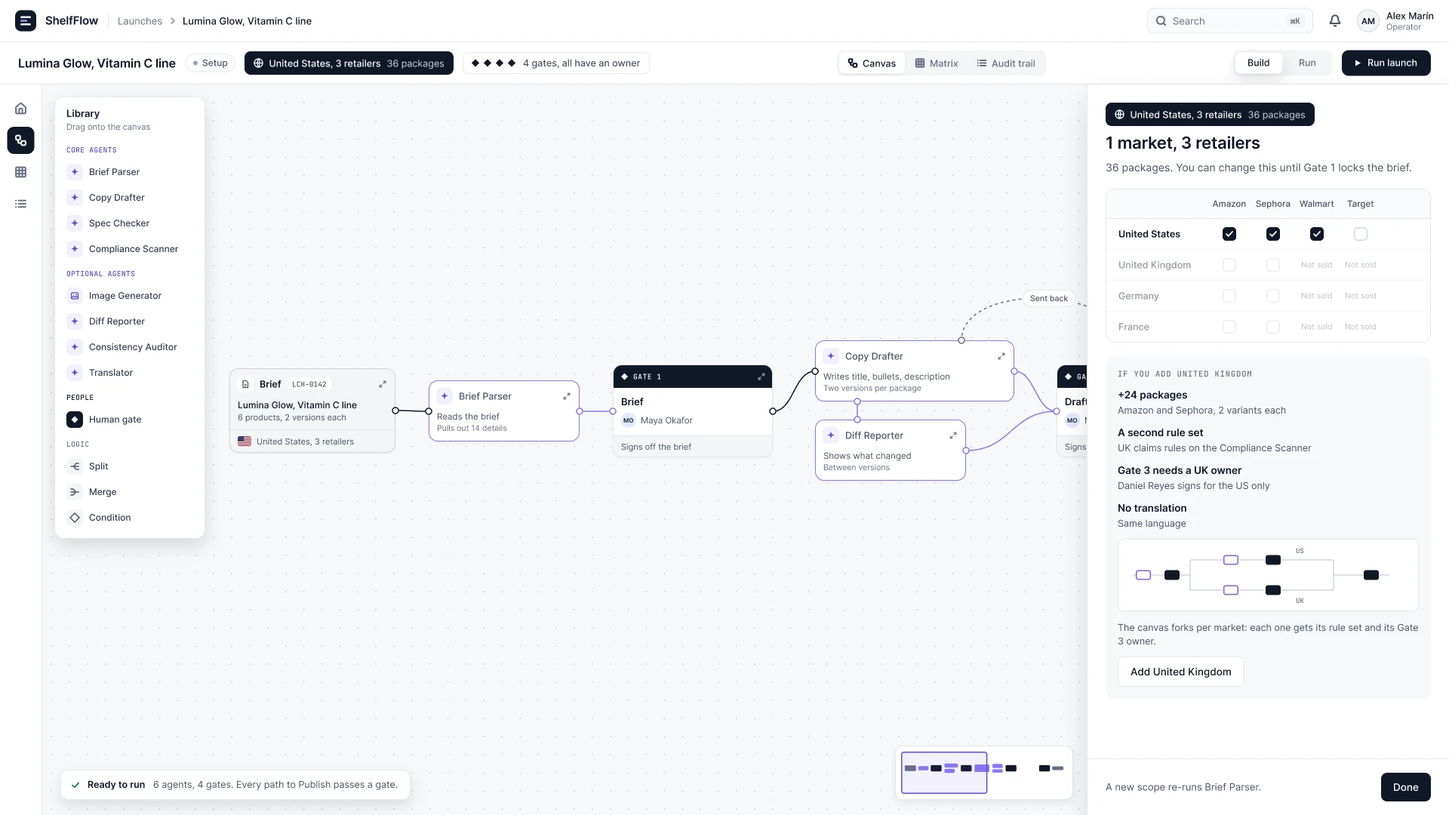
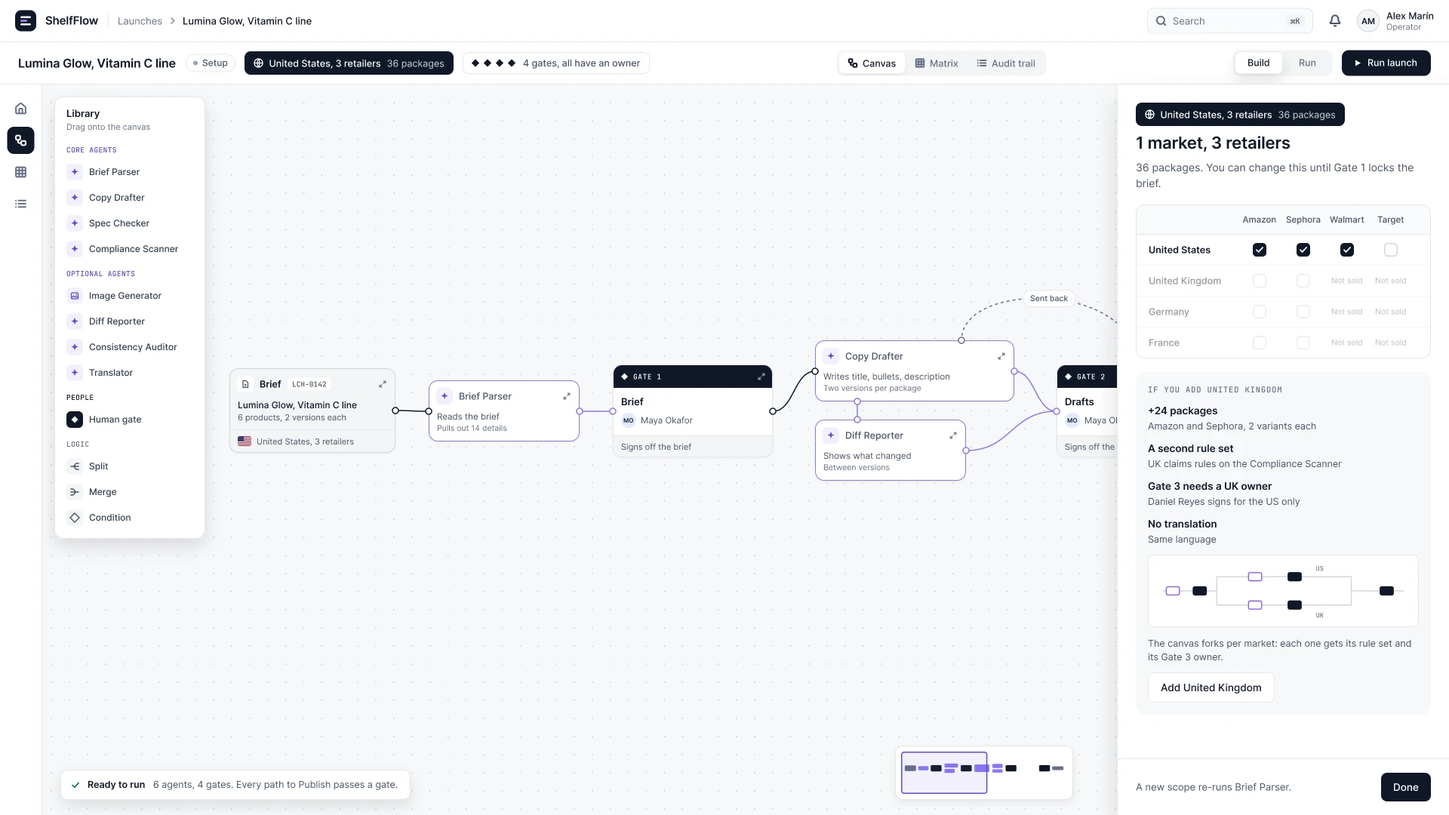
ShelfFlow: off the happy path, connections, one panel width
Agent retry, failure and hand-over; the nudge as the gate owner gets it; a gate
on a phone; the Connections screen. Scope panel now shares the 440 width.

Claude-Session: https://claude.ai/code/session_01HvDhLV3ZoERkt8nS9QeULq

diff --git a/work/shelfflow.html b/work/shelfflow.html
@@ -10,7 +10,7 @@
 <meta name="description" content="The supervision interface for an agentic content pipeline. Six AI agents, four human gates, 36 retailer-ready packages per brief. A case study by Inigo Angulo.">
 <meta property="og:title" content="ShelfFlow / Inigo Angulo">
 <meta property="og:description" content="The supervision interface for an agentic content pipeline. Six AI agents, four human gates, 36 retailer-ready packages per brief.">
-<meta property="og:image" content="https://inigoangulo.com/img/shelfflow/og.png?v=1126b">
+<meta property="og:image" content="https://inigoangulo.com/img/shelfflow/og.png?v=1126c">
 <meta property="og:image:width" content="1200">
 <meta property="og:image:height" content="630">
 <meta property="og:type" content="article">
@@ -18,7 +18,7 @@
 <meta name="twitter:card" content="summary_large_image">
 <meta name="twitter:title" content="ShelfFlow / Inigo Angulo">
 <meta name="twitter:description" content="The supervision interface for an agentic content pipeline. Six AI agents, four human gates, 36 retailer-ready packages per brief.">
-<meta name="twitter:image" content="https://inigoangulo.com/img/shelfflow/og.png?v=1126b">
+<meta name="twitter:image" content="https://inigoangulo.com/img/shelfflow/og.png?v=1126c">
 <link rel="preconnect" href="https://fonts.googleapis.com">
 <link rel="preconnect" href="https://fonts.gstatic.com" crossorigin>
 <link href="https://fonts.googleapis.com/css2?family=JetBrains+Mono:wght@300;400;500;600;700&family=IBM+Plex+Sans:wght@400;500;600;700&display=swap" rel="stylesheet">
@@ -89,7 +89,7 @@
   <p class="cs__sub" style="margin:-16px 0 32px;font-size:.78rem;color:var(--t3)">How to read the numbers: client figures are under NDA. "Weeks to days" is the target the product was designed for, not a published result. The numbers in the cards come from the demo launch shown in the screens: Lumina Glow, 6 SKUs, 3 retailers, 2 variants.</p>
 
   <!-- Hero visual -->
-  <div class="cs__img cs__img--wide" data-reveal><img src="../img/shelfflow/cover.png?v=1126b" alt="ShelfFlow canvas in Build mode: a library of agents and gates, and the start of the pipeline as a row of nodes with a sent back loop, above a minimap of the whole flow"></div>
+  <div class="cs__img cs__img--wide" data-reveal><img src="../img/shelfflow/cover.png?v=1126c" alt="ShelfFlow canvas in Build mode: a library of agents and gates, and the start of the pipeline as a row of nodes with a sent back loop, above a minimap of the whole flow"></div>
   <p class="cs__img-cap">The canvas for one launch. Violet nodes are agents, black ones are gates with a person's name on them.</p>
 
 
@@ -350,55 +350,55 @@
     </div>
 
   <div class="cs__screens" data-reveal>
-    <div class="cs__screen"><img src="../img/shelfflow/v4/build-place.webp?v=1126b" alt="Dragging a condition from the library onto an edge of the pipeline" width="1920" height="1080" loading="lazy" decoding="async"><span class="cs__screen-label">Place a node / the edge shows where it fits</span></div>
-    <div class="cs__screen"><img src="../img/shelfflow/v4/build-connect.webp?v=1126b" alt="Pulling a connection from the condition to a new legal review gate" width="1920" height="1080" loading="lazy" decoding="async"><span class="cs__screen-label">Connect a node / the socket shows where it lands</span></div>
+    <div class="cs__screen"><img src="../img/shelfflow/v4/build-place.webp?v=1126c" alt="Dragging a condition from the library onto an edge of the pipeline" width="1920" height="1080" loading="lazy" decoding="async"><span class="cs__screen-label">Place a node / the edge shows where it fits</span></div>
+    <div class="cs__screen"><img src="../img/shelfflow/v4/build-connect.webp?v=1126c" alt="Pulling a connection from the condition to a new legal review gate" width="1920" height="1080" loading="lazy" decoding="async"><span class="cs__screen-label">Connect a node / the socket shows where it lands</span></div>
   </div>
   <p class="cs__img-cap">Adding a branch. A condition dropped between Gate 3 and Gate 4 sends regulated claims through a legal gate, and the launch cannot run until that gate has an owner.</p>
-  <div class="cs__img" data-reveal><img src="../img/shelfflow/v4/build-refuse.webp?v=1126b" alt="The canvas refusing a connection from an agent straight to Publish" width="1920" height="1080" loading="lazy" decoding="async"></div>
+  <div class="cs__img" data-reveal><img src="../img/shelfflow/v4/build-refuse.webp?v=1126c" alt="The canvas refusing a connection from an agent straight to Publish" width="1920" height="1080" loading="lazy" decoding="async"></div>
   <p class="cs__img-cap">A line from an agent to Publish. The canvas refuses it and says why.</p>
     <div class="cs__section-text">
       <p>A real launch does not fit on one screen, and the canvas does not pretend it does. The flow reads in one direction and the operator pans along it, the way they would in any design tool. A minimap keeps the whole pipeline in view and marks the gate that is waiting. Each kind of node shows what it carries: a brief shows the product and where it sells, an agent shows what it made, a gate shows who signs.</p>
     </div>
 
-  <div class="cs__img" data-reveal><img src="../img/shelfflow/v6/run-live.webp?v=1126b" alt="The canvas in the middle of a run, panned to the checks: the Spec Checker is working through three retailers, later steps are joined by dotted lines, and a minimap in the corner shows the whole flow" width="1920" height="1080" loading="lazy" decoding="async"></div>
+  <div class="cs__img" data-reveal><img src="../img/shelfflow/v6/run-live.webp?v=1126c" alt="The canvas in the middle of a run, panned to the checks: the Spec Checker is working through three retailers, later steps are joined by dotted lines, and a minimap in the corner shows the whole flow" width="1920" height="1080" loading="lazy" decoding="async"></div>
   <p class="cs__img-cap">The same canvas halfway through a run, panned to the checks. Dotted lines have not run yet, the diamonds in the launch bar say which gate the launch has reached, and the minimap shows where this view sits in the whole flow.</p>
-  <div class="cs__img" data-reveal><img src="../img/shelfflow/v6/gate-timeline.webp?v=1126b" alt="Five moments of a gate shown in its header: Done in light grey, Now in solid dark, Up next in white, Maybe with a dotted outline and Blocked in red" width="1920" height="372" loading="lazy" decoding="async"></div>
+  <div class="cs__img" data-reveal><img src="../img/shelfflow/v6/gate-timeline.webp?v=1126c" alt="Five moments of a gate shown in its header: Done in light grey, Now in solid dark, Up next in white, Maybe with a dotted outline and Blocked in red" width="1920" height="372" loading="lazy" decoding="async"></div>
   <p class="cs__img-cap">In Build every gate is dark, because it marks where a person decides. Once the launch runs, the header tells time: finished gates go light, the one that is waiting stays dark, and a branch that may not happen is dotted. Every state also has a label, so colour is never the only signal.</p>
     <div class="cs__section-text">
       <p>Every node opens into more detail, and the canvas has to make that clear. A toolbar on every node would put around sixty controls on screen and bury the view of the whole launch. A toolbar that only appears on hover cannot be found, and does not exist on a touch screen. So visibility follows relevance, in three layers: a small mark on every node says it opens, the toolbar appears when a node is hovered or selected, and the one decision that is yours is a button inside the node, always there. What opens is as predictable: any node opens in the side panel to look, expands to a full view to study, and only the Review button on a gate starts a decision, one at a time.</p>
     </div>
 
-  <div class="cs__img" data-reveal><img src="../img/shelfflow/v6/three-layers.webp?v=1126b" alt="The same agent node at rest, on hover with its toolbar, and selected with the toolbar pinned, next to a gate whose Review button sits inside the node" width="1920" height="640" loading="lazy" decoding="async"></div>
+  <div class="cs__img" data-reveal><img src="../img/shelfflow/v6/three-layers.webp?v=1126c" alt="The same agent node at rest, on hover with its toolbar, and selected with the toolbar pinned, next to a gate whose Review button sits inside the node" width="1920" height="640" loading="lazy" decoding="async"></div>
   <p class="cs__img-cap">The same node at rest, on hover and selected. On the right, the gate that is waiting on you carries its own button.</p>
-  <div class="cs__img" data-reveal><img src="../img/shelfflow/v6/node-toolbar.webp?v=1126b" alt="A gate selected in Build mode with its toolbar above it: Change owner, open in side panel, expand, and a More menu that opens upward with Duplicate, Copy link and a locked Delete" width="1920" height="1080" loading="lazy" decoding="async"></div>
+  <div class="cs__img" data-reveal><img src="../img/shelfflow/v6/node-toolbar.webp?v=1126c" alt="A gate selected in Build mode with its toolbar above it: Change owner, open in side panel, expand, and a More menu that opens upward with Duplicate, Copy link and a locked Delete" width="1920" height="1080" loading="lazy" decoding="async"></div>
   <p class="cs__img-cap">The toolbar in Build. One action changes with the node and the other three stay put. The menu opens away from the row, so it never covers the node it belongs to.</p>
     <div class="cs__section-text">
       <p>Before any of that, the operator says where the launch goes. Markets and retailers are chosen first, because everything downstream follows from them: how many packages there are, which claims rules apply and who has to sign. Retailers depend on the market, so the choice is a grid, and the package count moves as it changes.</p>
     </div>
 
   <div class="cs__screens" data-reveal>
-    <div class="cs__screen"><img src="../img/shelfflow/v5/scope-step.webp?v=1126b" alt="Setting the scope of a launch: markets on the left, a grid of retailers per market on the right, and the package count below" width="1920" height="1080" loading="lazy" decoding="async"><span class="cs__screen-label">Scope first / markets, retailers, package count</span></div>
-    <div class="cs__screen"><img src="../img/shelfflow/v5/scope-panel.webp?v=1126b" alt="The scope panel open on the canvas, previewing what adding the United Kingdom would change" width="1920" height="1080" loading="lazy" decoding="async"><span class="cs__screen-label">On the canvas / what a second market adds</span></div>
+    <div class="cs__screen"><img src="../img/shelfflow/v5/scope-step.webp?v=1126c" alt="Setting the scope of a launch: markets on the left, a grid of retailers per market on the right, and the package count below" width="1920" height="1080" loading="lazy" decoding="async"><span class="cs__screen-label">Scope first / markets, retailers, package count</span></div>
+    <div class="cs__screen"><img src="../img/shelfflow/v5/scope-panel.webp?v=1126c" alt="The scope panel open on the canvas, previewing what adding the United Kingdom would change" width="1920" height="1080" loading="lazy" decoding="async"><span class="cs__screen-label">On the canvas / what a second market adds</span></div>
   </div>
   <p class="cs__img-cap">Lumina Glow goes to one market and three retailers: 6 products, 3 retailers, 2 variants, 36 packages. Adding the United Kingdom would add 24.</p>
-  <div class="cs__img" data-reveal><img src="../img/shelfflow/v5/scope-markets.webp?v=1126b" alt="The canvas with two markets: after the retailer checks the flow forks per market, each lane with its own Compliance Scanner rules and its own Gate 3, and the UK gate has no owner yet" width="1920" height="1080" loading="lazy" decoding="async"></div>
+  <div class="cs__img" data-reveal><img src="../img/shelfflow/v5/scope-markets.webp?v=1126c" alt="The canvas with two markets: after the retailer checks the flow forks per market, each lane with its own Compliance Scanner rules and its own Gate 3, and the UK gate has no owner yet" width="1920" height="1080" loading="lazy" decoding="async"></div>
   <p class="cs__img-cap">A second market is more than extra packages. The canvas forks per market, each lane gets its own claims rules and its own Gate 3, and the launch cannot run until the new gate has an owner.</p>
     <div class="cs__section-text">
       <p>The drawing also changes with the brief. A copy refresh on two retailers needs four agents. A seasonal promo needs new visuals, so the operator brings in an optional Image Generator that runs beside the Copy Drafter and arrives at the same gate. A new product line needs every check. ShelfFlow reads the brief and suggests the closest shape.</p>
     </div>
 
   <div class="cs__screens" data-reveal>
-    <div class="cs__screen"><img src="../img/shelfflow/v4/brief-templates.webp?v=1126b" alt="Starting a launch: four pipeline templates, with Promo campaign suggested from the brief" width="1920" height="1080" loading="lazy" decoding="async"><span class="cs__screen-label">Start from the brief / a shape is suggested</span></div>
-    <div class="cs__screen"><img src="../img/shelfflow/v4/promo-canvas.webp?v=1126b" alt="The canvas for a promo campaign, with an optional Image Generator node beside the Copy Drafter" width="1920" height="1080" loading="lazy" decoding="async"><span class="cs__screen-label">Promo canvas / an optional agent joins</span></div>
+    <div class="cs__screen"><img src="../img/shelfflow/v4/brief-templates.webp?v=1126c" alt="Starting a launch: four pipeline templates, with Promo campaign suggested from the brief" width="1920" height="1080" loading="lazy" decoding="async"><span class="cs__screen-label">Start from the brief / a shape is suggested</span></div>
+    <div class="cs__screen"><img src="../img/shelfflow/v4/promo-canvas.webp?v=1126c" alt="The canvas for a promo campaign, with an optional Image Generator node beside the Copy Drafter" width="1920" height="1080" loading="lazy" decoding="async"><span class="cs__screen-label">Promo canvas / an optional agent joins</span></div>
   </div>
   <p class="cs__img-cap">Holiday Gift Sets needs new visuals and carries no regulated claims, so the promo shape is suggested.</p>
-  <div class="cs__img" data-reveal><img src="../img/shelfflow/v4/zoom-optional-node.webp?v=1126b" alt="Close view of the promo canvas: after Gate 1 the path forks to the Copy Drafter and to an Image Generator node tagged optional that shows its packshots, and both meet at Gate 2" width="1664" height="724" loading="lazy" decoding="async"></div>
+  <div class="cs__img" data-reveal><img src="../img/shelfflow/v4/zoom-optional-node.webp?v=1126c" alt="Close view of the promo canvas: after Gate 1 the path forks to the Copy Drafter and to an Image Generator node tagged optional that shows its packshots, and both meet at Gate 2" width="1664" height="724" loading="lazy" decoding="async"></div>
   <p class="cs__img-cap">The optional node, up close. After Gate 1 the path forks: copy on one branch, visuals on the other, and both meet at Gate 2.</p>
-  <div class="cs__img" data-reveal><img src="../img/shelfflow/v4/image-node.webp?v=1126b" alt="The Image Generator node expanded: inputs, generated visuals per retailer format, boundaries and track record" width="1920" height="1080" loading="lazy" decoding="async"></div>
+  <div class="cs__img" data-reveal><img src="../img/shelfflow/v4/image-node.webp?v=1126c" alt="The Image Generator node expanded: inputs, generated visuals per retailer format, boundaries and track record" width="1920" height="1080" loading="lazy" decoding="async"></div>
   <p class="cs__img-cap">Open the node and it shows what every agent shows: what it used, what it made, and what it is not allowed to do. It composes from approved packshots, cannot add a claim or a price, and its output still waits for a person.</p>
-  <div class="cs__img" data-reveal><img src="../img/shelfflow/v4/zoom-image-node.webp?v=1126b" alt="Generated visuals for gift sets by retailer format: some ready, one redone, two still generating" width="1800" height="1194" loading="lazy" decoding="async"></div>
+  <div class="cs__img" data-reveal><img src="../img/shelfflow/v4/zoom-image-node.webp?v=1126c" alt="Generated visuals for gift sets by retailer format: some ready, one redone, two still generating" width="1800" height="1194" loading="lazy" decoding="async"></div>
   <p class="cs__img-cap">Its output: one visual per gift set and retailer format. One was redone for being off brand before anyone saw it. These images were generated for the demo.</p>
-  <div class="cs__img" data-reveal><img src="../img/shelfflow/v4/three-canvases.webp?v=1126b" alt="Three canvases compared: a copy refresh with four agents, a promo campaign with five, and a full launch with six and a legal branch" width="1920" height="1080" loading="lazy" decoding="async"></div>
+  <div class="cs__img" data-reveal><img src="../img/shelfflow/v4/three-canvases.webp?v=1126c" alt="Three canvases compared: a copy refresh with four agents, a promo campaign with five, and a full launch with six and a legal branch" width="1920" height="1080" loading="lazy" decoding="async"></div>
   <p class="cs__img-cap">Three briefs, three canvases, drawn with the same nodes at the same zoom: four, five and six agents. The gates do not move.</p>
     <div class="cs__section-text">
       <p>A shape that worked should not be rebuilt by hand. Once a launch is live, the operator can save it as a template, and Brief Parser does the sorting: it compares past launches and splits every setting into what stays fixed, what comes filled in, and what is asked each time. The next promo is four fields instead of a brief.</p>
@@ -406,15 +406,15 @@
     </div>
 
   <div class="cs__screens" data-reveal>
-    <div class="cs__screen"><img src="../img/shelfflow/v5/template-save.webp?v=1126b" alt="Save as template: the settings of a live launch sorted into three columns, Fixed, Default and Ask every time" width="1920" height="1080" loading="lazy" decoding="async"><span class="cs__screen-label">Save as template / the agent sorts the settings</span></div>
-    <div class="cs__screen"><img src="../img/shelfflow/v5/template-launch.webp?v=1126b" alt="A new launch started from a template: four fields to fill in, next to the list of what is already decided" width="1920" height="1080" loading="lazy" decoding="async"><span class="cs__screen-label">New launch / four fields, the rest is decided</span></div>
+    <div class="cs__screen"><img src="../img/shelfflow/v5/template-save.webp?v=1126c" alt="Save as template: the settings of a live launch sorted into three columns, Fixed, Default and Ask every time" width="1920" height="1080" loading="lazy" decoding="async"><span class="cs__screen-label">Save as template / the agent sorts the settings</span></div>
+    <div class="cs__screen"><img src="../img/shelfflow/v5/template-launch.webp?v=1126c" alt="A new launch started from a template: four fields to fill in, next to the list of what is already decided" width="1920" height="1080" loading="lazy" decoding="async"><span class="cs__screen-label">New launch / four fields, the rest is decided</span></div>
   </div>
   <p class="cs__img-cap">Alex saves Holiday Gift Sets as a template. The next gift set launch asks for products, dates, the offer claim and the packshots, and nothing else.</p>
-  <div class="cs__img" data-reveal><img src="../img/shelfflow/v5/template-update.webp?v=1126b" alt="A proposed template update from version 3 to version 4: two changes with their evidence, the affected node marked on the canvas, and approve or dismiss" width="1920" height="1080" loading="lazy" decoding="async"></div>
+  <div class="cs__img" data-reveal><img src="../img/shelfflow/v5/template-update.webp?v=1126c" alt="A proposed template update from version 3 to version 4: two changes with their evidence, the affected node marked on the canvas, and approve or dismiss" width="1920" height="1080" loading="lazy" decoding="async"></div>
   <p class="cs__img-cap">Keeping it current. Image Generator was added by hand in 4 of the last 5 launches, so Diff Reporter proposes turning it on by default. Maya can approve both changes, one, or none.</p>
-  <div class="cs__img" data-reveal><img src="../img/shelfflow/v5/template-library.webp?v=1126b" alt="The template library: three templates owned by the team with their state and usage, and the three shapes that ship with ShelfFlow, locked" width="1920" height="1080" loading="lazy" decoding="async"></div>
+  <div class="cs__img" data-reveal><img src="../img/shelfflow/v5/template-library.webp?v=1126c" alt="The template library: three templates owned by the team with their state and usage, and the three shapes that ship with ShelfFlow, locked" width="1920" height="1080" loading="lazy" decoding="async"></div>
   <p class="cs__img-cap">The library. The team's templates carry a state, a version and how long they take to reach Live. The three shapes that ship with ShelfFlow can be duplicated, not edited.</p>
-  <div class="cs__img" data-reveal><img src="../img/shelfflow/v5/chip-system.webp?v=1126b" alt="The chip system: five kinds of label, each answering one question, with the life cycle of a launch, a template and a gate" width="1920" height="1080" loading="lazy" decoding="async"></div>
+  <div class="cs__img" data-reveal><img src="../img/shelfflow/v5/chip-system.webp?v=1126c" alt="The chip system: five kinds of label, each answering one question, with the life cycle of a launch, a template and a gate" width="1920" height="1080" loading="lazy" decoding="async"></div>
   <p class="cs__img-cap">Templates added a second thing that could be a draft, so every label in the product was sorted again. A chip now answers one question: where it is, what the agent is doing, what rule applies, where it came from, or how many.</p>
   <a href="/lab/hold-the-gate/" data-reveal style="display:flex;align-items:center;gap:20px;flex-wrap:wrap;background:rgba(45,212,191,.04);border:1px solid rgba(45,212,191,.25);border-radius:12px;padding:22px 26px;margin:28px 0;text-decoration:none">
     <span style="flex:1;min-width:240px">
@@ -439,47 +439,47 @@
       <p>Below, every launch by stage. A card shows what separates one launch from the next: days to launch, progress inside its stage and, when something is wrong, what. The four diamonds in its corner are the same ones the canvas uses: green for a gate already signed, black for the one open now, outlined for the ones still ahead.</p>
     </div>
 
-  <div class="cs__img" data-reveal><img src="../img/shelfflow/v4/home-dashboard.webp?v=1126b" alt="ShelfFlow home: the decision queue with the first row selected, the launches that are not moving with who they wait on, the dates for the week, and a board of sixteen launches by stage" width="1920" height="1080" loading="lazy" decoding="async"></div>
+  <div class="cs__img" data-reveal><img src="../img/shelfflow/v4/home-dashboard.webp?v=1126c" alt="ShelfFlow home: the decision queue with the first row selected, the launches that are not moving with who they wait on, the dates for the week, and a board of sixteen launches by stage" width="1920" height="1080" loading="lazy" decoding="async"></div>
   <p class="cs__img-cap">Home, from the Content Lead's seat. The queue is hers, the list next to it is everyone else's. On the board, black is waiting on her, grey on someone else, violet is an agent working, red is an error.</p>
-  <div class="cs__img" data-reveal><img src="../img/shelfflow/v4/zoom-home-cards.webp?v=1126b" alt="Close view of launch cards: four diamonds for the gates, days to launch, progress bars and error states" width="1800" height="680" loading="lazy" decoding="async"></div>
+  <div class="cs__img" data-reveal><img src="../img/shelfflow/v4/zoom-home-cards.webp?v=1126c" alt="Close view of launch cards: four diamonds for the gates, days to launch, progress bars and error states" width="1800" height="680" loading="lazy" decoding="async"></div>
   <p class="cs__img-cap">Three kinds of trouble on the board: a check blocked by a missing spec sheet, an agent that timed out and is retrying, and a launch two days late.</p>
-  <div class="cs__img" data-reveal><img src="../img/shelfflow/v4/home-filter.webp?v=1126b" alt="The board filtered to launches with an error: two cards remain, with the filter conditions open" width="1864" height="484" loading="lazy" decoding="async"></div>
+  <div class="cs__img" data-reveal><img src="../img/shelfflow/v4/home-filter.webp?v=1126c" alt="The board filtered to launches with an error: two cards remain, with the filter conditions open" width="1864" height="484" loading="lazy" decoding="async"></div>
   <p class="cs__img-cap">Finding one launch among sixteen: search by name, SKU or retailer, or filter by condition.</p>
     <p style="font-family:var(--m);font-size:.72rem;letter-spacing:.1em;text-transform:uppercase;color:var(--ac);margin:44px 0 10px">13:02 to 13:14 / Gate 1, the brief</p>
     <div class="cs__section-text">
       <p>Alex submits the brief. The Brief Parser structures it into 6 SKUs and 36 packages, and stops on what it cannot settle: the brief names three markets, but every retailer and SKU is US only. Maya answers the question and locks the brief. From here it cannot change silently.</p>
     </div>
 
-  <div class="cs__img" data-reveal><img src="../img/shelfflow/v3/gate1.webp?v=1126b" alt="Gate 1: the submitted brief next to what the agent structured, field by field" width="1920" height="1080" loading="lazy" decoding="async"></div>
+  <div class="cs__img" data-reveal><img src="../img/shelfflow/v3/gate1.webp?v=1126c" alt="Gate 1: the submitted brief next to what the agent structured, field by field" width="1920" height="1080" loading="lazy" decoding="async"></div>
   <p class="cs__img-cap">Gate 1. On the left, what Alex wrote. On the right, what the agent read, with every difference marked.</p>
     <p style="font-family:var(--m);font-size:.72rem;letter-spacing:.1em;text-transform:uppercase;color:var(--ac);margin:44px 0 10px">13:17 to 13:52 / Gate 2, drafts and a loop</p>
     <div class="cs__section-text">
       <p>The Copy Drafter writes two versions of all 36 packages. Maya sends three back as too long for Sephora. She says what is wrong in one sentence, the work returns to the agent, and she is free until it comes back. Minutes later the rewrites return with the changes marked, and she approves all 36.</p>
     </div>
 
-  <div class="cs__img" data-reveal><img src="../img/shelfflow/v4/zoom-loop.webp?v=1126b" alt="Close view of the sent back loop between Gate 2 and the Copy Drafter" width="1360" height="680" loading="lazy" decoding="async"></div>
+  <div class="cs__img" data-reveal><img src="../img/shelfflow/v4/zoom-loop.webp?v=1126c" alt="Close view of the sent back loop between Gate 2 and the Copy Drafter" width="1360" height="680" loading="lazy" decoding="async"></div>
   <p class="cs__img-cap">A rejection is a loop, not a dead end. Three drafts are back with the Copy Drafter and everything downstream waits.</p>
     <p style="font-family:var(--m);font-size:.72rem;letter-spacing:.1em;text-transform:uppercase;color:var(--ac);margin:44px 0 10px">14:10 to 14:21 / The checks</p>
     <div class="cs__section-text">
       <p>Past Gate 2 the Spec Checker takes each retailer against its own limits, one row per retailer, and nothing moves on until all three fit. Then the Compliance Scanner reads every claim. On the canvas an agent says what it did in one line: packages written, retailers that fit, claims flagged. The detail is one click away.</p>
     </div>
 
-  <div class="cs__img" data-reveal><img src="../img/shelfflow/v4/zoom-split.webp?v=1126b" alt="Close view of the Spec Checker while it runs: one row per retailer, Amazon fits, Sephora and Walmart are being checked" width="1520" height="800" loading="lazy" decoding="async"></div>
+  <div class="cs__img" data-reveal><img src="../img/shelfflow/v4/zoom-split.webp?v=1126c" alt="Close view of the Spec Checker while it runs: one row per retailer, Amazon fits, Sephora and Walmart are being checked" width="1520" height="800" loading="lazy" decoding="async"></div>
   <p class="cs__img-cap">The Spec Checker while it runs. Amazon fits, Sephora and Walmart are still being checked.</p>
-  <div class="cs__img" data-reveal><img src="../img/shelfflow/v4/run-agent.webp?v=1126b" alt="Clicking the Compliance Scanner opens its essentials in a side panel" width="1920" height="1080" loading="lazy" decoding="async"></div>
+  <div class="cs__img" data-reveal><img src="../img/shelfflow/v4/run-agent.webp?v=1126c" alt="Clicking the Compliance Scanner opens its essentials in a side panel" width="1920" height="1080" loading="lazy" decoding="async"></div>
   <p class="cs__img-cap">Clicking the scanner: what it flagged, what it may and may not do, and how often its flags hold up once a person checks them.</p>
     <p style="font-family:var(--m);font-size:.72rem;letter-spacing:.1em;text-transform:uppercase;color:var(--ac);margin:44px 0 10px">14:21 to 14:52 / Gate 3, compliance</p>
     <div class="cs__section-text">
       <p>The scanner raises four flags: "clinically proven", "results in 14 days", "dermatologist approved" and "all-day protection". They sit on six packages, because the same claim repeats across retailers. The other 30 are clear. The flags are what the agent caught, not what shipped. Daniel takes them one at a time.</p>
     </div>
 
-  <div class="cs__img" data-reveal><img src="../img/shelfflow/v6/gate-panel.webp?v=1126b" alt="Gate 3 selected on the canvas with its side panel open: four flagged claims, the count of clear packages and a Review flags button" width="1920" height="1080" loading="lazy" decoding="async"></div>
+  <div class="cs__img" data-reveal><img src="../img/shelfflow/v6/gate-panel.webp?v=1126c" alt="Gate 3 selected on the canvas with its side panel open: four flagged claims, the count of clear packages and a Review flags button" width="1920" height="1080" loading="lazy" decoding="async"></div>
   <p class="cs__img-cap">Gate 3 from Daniel's seat. Selecting the gate opens it in the side panel, where every node opens, and the decision starts from Review.</p>
-  <div class="cs__img" data-reveal><img src="../img/shelfflow/v6/matrix.webp?v=1126b" alt="The Matrix view: six products by three retailers, two versions per cell, with the six flagged packages marked in red" width="1920" height="1080" loading="lazy" decoding="async"></div>
+  <div class="cs__img" data-reveal><img src="../img/shelfflow/v6/matrix.webp?v=1126c" alt="The Matrix view: six products by three retailers, two versions per cell, with the six flagged packages marked in red" width="1920" height="1080" loading="lazy" decoding="async"></div>
   <p class="cs__img-cap">The same moment in the Matrix view: every package by product and retailer. Four flags on six packages, 30 clear.</p>
-  <div class="cs__img" data-reveal><img src="../img/shelfflow/v4/gate3-review.webp?v=1126b" alt="Gate 3 opened over the canvas, showing one flagged sentence" width="1920" height="1080" loading="lazy" decoding="async"></div>
+  <div class="cs__img" data-reveal><img src="../img/shelfflow/v4/gate3-review.webp?v=1126c" alt="Gate 3 opened over the canvas, showing one flagged sentence" width="1920" height="1080" loading="lazy" decoding="async"></div>
   <p class="cs__img-cap">One flag: the sentence, the reason, a note for the agent, and a keyboard shortcut per answer. This decision also covers the same claim in two other packages.</p>
-  <div class="cs__img" data-reveal><img src="../img/shelfflow/v3/gate3-evidence.webp?v=1126b" alt="The full evidence view for one flag, with the decision panel" width="1920" height="1080" loading="lazy" decoding="async"></div>
+  <div class="cs__img" data-reveal><img src="../img/shelfflow/v3/gate3-evidence.webp?v=1126c" alt="The full evidence view for one flag, with the decision panel" width="1920" height="1080" loading="lazy" decoding="async"></div>
   <p class="cs__img-cap">The evidence behind it: the rule, the source sentence in the brief, and a suggested rewrite that is never applied on its own.</p>
     <p style="font-family:var(--m);font-size:.72rem;letter-spacing:.1em;text-transform:uppercase;color:var(--ac);margin:44px 0 10px">14:52 to 15:24 / Gate 4, the launch</p>
     <div class="cs__section-text">
@@ -487,8 +487,8 @@
     </div>
 
   <div class="cs__screens" data-reveal>
-    <div class="cs__screen"><img src="../img/shelfflow/v4/gate4-choose.webp?v=1126b" alt="Gate 4: choosing between version A and B for one product and retailer" width="1920" height="1080" loading="lazy" decoding="async"><span class="cs__screen-label">Gate 4 / one choice</span></div>
-    <div class="cs__screen"><img src="../img/shelfflow/v4/gate4-batch.webp?v=1126b" alt="Gate 4: the batch shortcut stays locked until every choice has been opened" width="1920" height="1080" loading="lazy" decoding="async"><span class="cs__screen-label">Gate 4 / the shortcut, still locked</span></div>
+    <div class="cs__screen"><img src="../img/shelfflow/v4/gate4-choose.webp?v=1126c" alt="Gate 4: choosing between version A and B for one product and retailer" width="1920" height="1080" loading="lazy" decoding="async"><span class="cs__screen-label">Gate 4 / one choice</span></div>
+    <div class="cs__screen"><img src="../img/shelfflow/v4/gate4-batch.webp?v=1126c" alt="Gate 4: the batch shortcut stays locked until every choice has been opened" width="1920" height="1080" loading="lazy" decoding="async"><span class="cs__screen-label">Gate 4 / the shortcut, still locked</span></div>
   </div>
   <p class="cs__img-cap">Two versions side by side with their character counts. On the right, the shortcut waits for six choices she has not opened yet.</p>
     <p style="font-family:var(--m);font-size:.72rem;letter-spacing:.1em;text-transform:uppercase;color:var(--ac);margin:44px 0 10px">15:24 / Live</p>
@@ -496,10 +496,18 @@
       <p>Sofia approves. One variant of each product goes live on each retailer: 18 packages, 2 hours and 22 minutes after the brief arrived.</p>
     </div>
 
-  <div class="cs__img" data-reveal><img src="../img/shelfflow/v4/run-done.webp?v=1126b" alt="The canvas after launch: every gate signed, 18 packages live" width="1920" height="1080" loading="lazy" decoding="async"></div>
+  <div class="cs__img" data-reveal><img src="../img/shelfflow/v4/run-done.webp?v=1126c" alt="The canvas after launch: every gate signed, 18 packages live" width="1920" height="1080" loading="lazy" decoding="async"></div>
   <p class="cs__img-cap">The same drawing Alex built, with every node done.</p>
-  <div class="cs__img" data-reveal><img src="../img/shelfflow/v3/audit.webp?v=1126b" alt="Audit trail view: every step in order with people in bold, and one step open showing who sent three packages back, why, and what the agents did next" width="1920" height="1080" loading="lazy" decoding="async"></div>
+  <div class="cs__img" data-reveal><img src="../img/shelfflow/v3/audit.webp?v=1126c" alt="Audit trail view: every step in order with people in bold, and one step open showing who sent three packages back, why, and what the agents did next" width="1920" height="1080" loading="lazy" decoding="async"></div>
   <p class="cs__img-cap">The audit trail for this launch. People are in bold and each gate decision is tagged, so "who approved this claim?" is one row with a name and a time. Every step opens in place: who, what, the note that went to the agent and what happened next.</p>
+    <p style="font-family:var(--m);font-size:.72rem;letter-spacing:.1em;text-transform:uppercase;color:var(--ac);margin:44px 0 10px">Off the happy path</p>
+    <div class="cs__section-text">
+      <p>Lumina Glow went through without a failure, and most launches do not. Two things break a pipeline like this one: an agent that stops answering, and a person who does not see that a gate is waiting. Each has a designed path. An agent retries three times on its own, then stops the launch at its node and tells the operator, who can retry it or hand the node to a person. A failed agent never passes work on, so the gate after it stays closed. A person gets a nudge that carries the decision itself, and the two gates that are one question at a time can be answered from a phone.</p>
+    </div>
+  <div class="cs__img" data-reveal><img src="../img/shelfflow/v6/off-plan.webp?v=1126c" alt="Three states of a failing agent, the nudge a gate owner receives with the flag inside it, and Gate 3 reviewed on a phone" width="1920" height="780" loading="lazy" decoding="async"></div>
+  <p class="cs__img-cap">When it does not go to plan: the agent that fails, the nudge as the gate owner gets it, and the gate on a phone. Gate 4 stays on a desk, because 18 choices need both versions side by side.</p>
+  <div class="cs__img" data-reveal><img src="../img/shelfflow/v6/connections.webp?v=1126c" alt="Connections: where a launch starts, what the agents check against, where packages go and where people are told, with two connections needing attention" width="1920" height="880" loading="lazy" decoding="async"></div>
+  <p class="cs__img-cap">Connections, the last place a problem hides. The two that need attention here are the same two launches that are not moving on Home: Sephora has no spec sheet for Lip Care, and the claims library is timing out for Deo Sticks.</p>
   </div>
 
   <div class="cs__section" id="s05" data-reveal>

diff --git a/index.html b/index.html
@@ -936,7 +936,7 @@ window.addEventListener('DOMContentLoaded',function(){
 
 <div class="layer layer--raised"><div class="mx"><div class="sh"><span>// work</span></div>
 <div class="cards">
-<a href="work/shelfflow.html" class="cd cd--f cd--5"><div class="cd__img"><img src="img/shelfflow/flagship-card.webp?v=1126b" width="2374" height="1118" decoding="async" alt="ShelfFlow: six agents do the work, four people decide what ships" style="width:100%;height:100%;object-fit:cover;object-position:center;position:absolute;inset:0"></div><div class="cd__body"><div class="cd__type"><span class="cd__tag cd__tag--who">Enterprise CPG / NDA</span><span class="cd__tag cd__tag--what">Agentic Pipeline</span><span class="cd__tag cd__tag--result">1 Brief &#8594; 36 Packages</span><span class="cd__tag cd__tag--live">Interactive Demo</span></div><h3 class="cd__name">ShelfFlow</h3><p class="cd__desc">The supervision interface for an agentic content pipeline: six AI agents generate and adapt, four human gates decide what ships across retailers.</p><div class="cd__foot"><span class="cd__yr">View case study</span><span class="cd__go">&#8594;</span></div></div></a>
+<a href="work/shelfflow.html" class="cd cd--f cd--5"><div class="cd__img"><img src="img/shelfflow/flagship-card.webp?v=1126c" width="2374" height="1118" decoding="async" alt="ShelfFlow: six agents do the work, four people decide what ships" style="width:100%;height:100%;object-fit:cover;object-position:center;position:absolute;inset:0"></div><div class="cd__body"><div class="cd__type"><span class="cd__tag cd__tag--who">Enterprise CPG / NDA</span><span class="cd__tag cd__tag--what">Agentic Pipeline</span><span class="cd__tag cd__tag--result">1 Brief &#8594; 36 Packages</span><span class="cd__tag cd__tag--live">Interactive Demo</span></div><h3 class="cd__name">ShelfFlow</h3><p class="cd__desc">The supervision interface for an agentic content pipeline: six AI agents generate and adapt, four human gates decide what ships across retailers.</p><div class="cd__foot"><span class="cd__yr">View case study</span><span class="cd__go">&#8594;</span></div></div></a>
 <a href="work/acervo.html" class="cd cd--f cd--1"><div class="cd__img"><img src="img/acervo-card.webp" width="2374" height="1118" decoding="async" alt="Acervo private automotive collections" style="width:100%;height:100%;object-fit:cover;object-position:center;position:absolute;inset:0"></div><div class="cd__body"><div class="cd__type"><span class="cd__tag cd__tag--who">Acervo / Private client, Mexico</span><span class="cd__tag cd__tag--what">AI Build / Agent Team</span><span class="cd__tag cd__tag--result">17 Days to Production</span><span class="cd__tag cd__tag--live">Live at app.acervogroup.com</span></div><h3 class="cd__name">Acervo</h3><p class="cd__desc">A private platform for a serious car collection, built for a private collector in Mexico. Scoped, designed and shipped solo with eight AI agents under two human gates.</p><div class="cd__foot"><span class="cd__yr">View case study</span><span class="cd__go">&#8594;</span></div></div></a>
 <a href="work/checkout.html" class="cd cd--3"><div class="cd__img"><img src="img/gyg-card.webp?v=1118w" width="1920" height="1200" decoding="async" loading="lazy" alt="GetYourGuide checkout redesign: the funnel leaked between steps, +11% conversion" style="width:100%;height:100%;object-fit:cover;position:absolute;inset:0"></div><div class="cd__body"><div class="cd__type"><span class="cd__tag cd__tag--who">GetYourGuide</span><span class="cd__tag cd__tag--what">CRO / 10 A/B Tests</span><span class="cd__tag cd__tag--result">+11% Conversion</span><span class="cd__tag cd__tag--live">Live in Production</span></div><h3 class="cd__name">Checkout Funnel Redesign</h3><p class="cd__desc">The team was optimizing the wrong step. 38% of converters left checkout and came back to nothing. Ten experiments on the gap nobody measured.</p><div class="cd__foot"><span class="cd__yr">View case study</span><span class="cd__go">&#8594;</span></div></div></a>
 <div class="cards__side">
